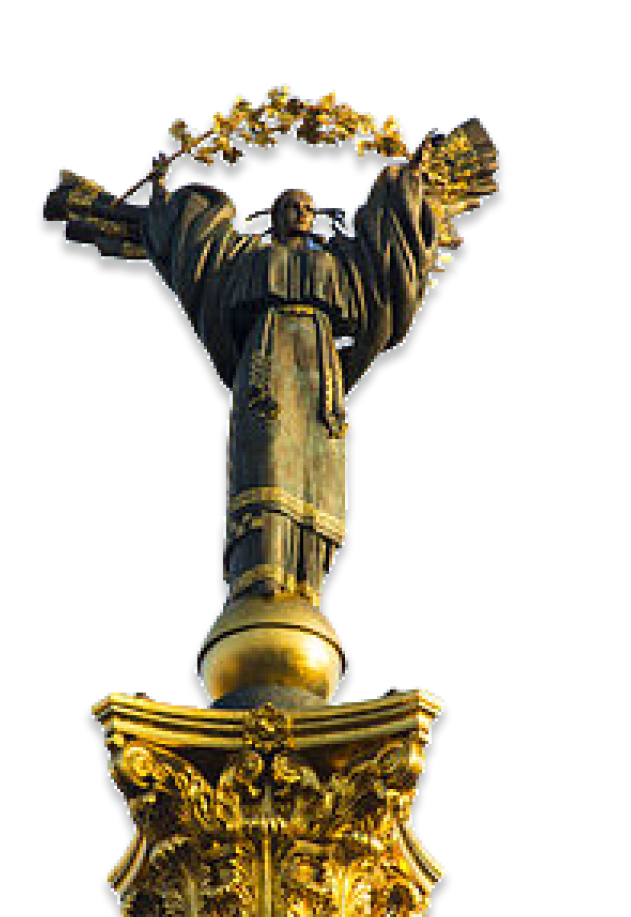
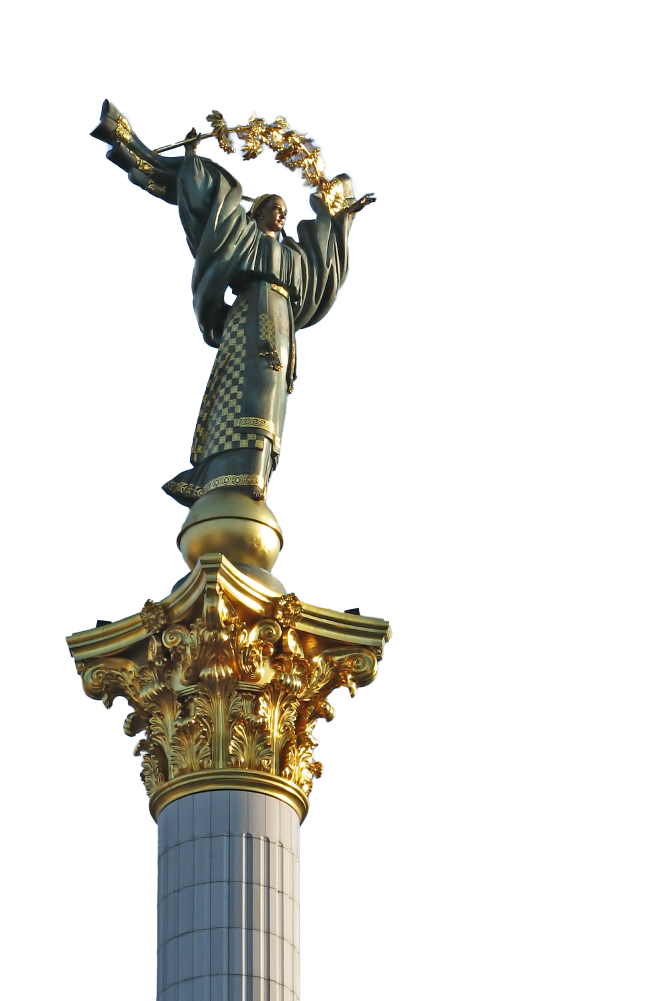
Small UI update
Updated Statue Image for better quality.
Changed Seed name to Bubki
Added french translation in the About.

diff --git a/src/pages/about.tsx b/src/pages/about.tsx
@@ -66,14 +66,19 @@ const localisation = {
       'Estamos donando todo el rendimiento generado a la organización X. Dirección del contrato: 0x...........'
   },
   fr: {
-    headerOne: '',
-    paragraphOneA: '',
-    paragraphOneB: '',
-    headerTwo: '',
-    paragraphTwoA: '',
-    paragraphTwoB: '',
-    headerThree: '',
-    paragraphThree: ''
+    headerOne: 'Pourquoi vous devriez vous en soucier',
+    paragraphOneA:
+      'Si vous ne l’avez pas déjà entendu, l’Ukraine est attaquée par la Russie. Aidez-nous à faire notre part! 💪',
+    paragraphOneB:
+      'Rejoignez-nous et la communauté crypto pour fournir un soutien humanitaire à l’Ukraine avec l’aide du DeFi.',
+    headerTwo: 'Comment ça fonctionne',
+    paragraphTwoA:
+      'Déléguez vos fonds pour aider à soutenir les Ukrainiens pendant cette rude période.',
+    paragraphTwoB:
+      'Le projet Sunflower vous permet d’investir votre argent dans un pool qui génère des intérêts. Vous conservez toujours le montant exact que vous avez investi et pouvez le récupérer à tout moment. Nous prenons les rendements réalisés en utilisant vos actifs comme garantie pour soutenir les efforts de défense de l’Ukraine.',
+    headerThree: 'Où va l’argent',
+    paragraphThree:
+      'Nous faisons don de tout le rendement généré à l’organisation X. Adresse du contrat: 0x...........'
   }
 }
 

diff --git a/src/components/Header/index.tsx b/src/components/Header/index.tsx
@@ -59,7 +59,7 @@ export const Header = () => {
       <Stack direction={['column', 'column', 'row']} px={2} py={4}>
         <HStack justifyContent={['space-between']} w={'full'}>
           <Box ml={['none', '208px']} fontWeight="bold" fontSize={[20, 20, 20]}>
-            <Link href="/">🇺🇦 S33DS</Link>
+            <Link href="/">🇺🇦 BUBKI</Link>
           </Box>
 
           <HStack>
